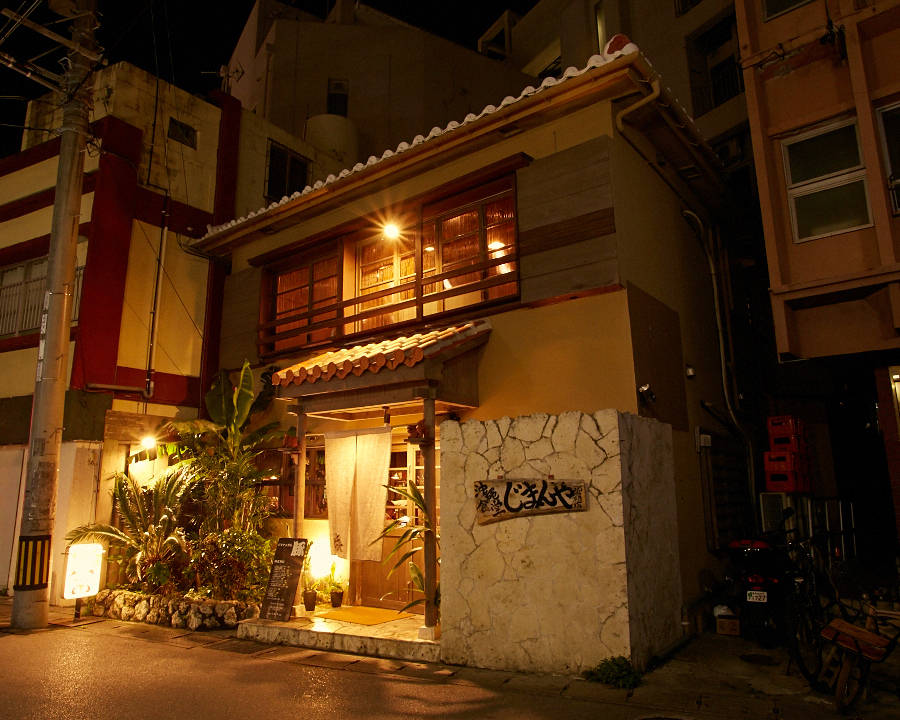
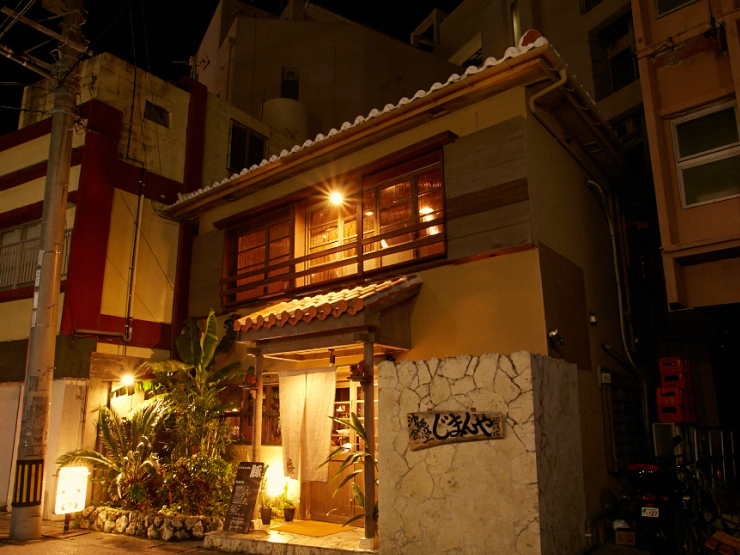
画像サイズとレイアウト修正

diff --git a/src/components/Main.vue b/src/components/Main.vue
@@ -2,7 +2,7 @@
     <main>
       <section id="concept" class="p-12 bg-white">
         <h2 class="text-center text-3xl mb-4 tracking-widest text-seaBlue font-bold">沖縄の飲食店を応援する</h2>
-        <p class="text-center text-lg leading-8 text-seaBlue mb-4">新型コロナウィルスによって多くの飲食店が大きなダメージを受けました。<br>そんな中でも一生懸命、お客さんに美味しい料理を提供してくれるお店を応援したいと考えています。</p>
+        <p class="text-center text-lg leading-8 text-seaBlue mb-6">新型コロナウィルスによって多くの飲食店が大きなダメージを受けました。<br>そんな中でも一生懸命、お客さんに美味しい料理を提供してくれるお店を応援したいと考えています。</p>
         <div class="w-10/12 m-auto">
           <VueSlickCarousel v-bind="settings">
                   <div v-for="item in items" v-bind:key="item.index" class="card-item">
@@ -45,12 +45,12 @@ export default {
           { 
             img: require('@/assets/images/naha/002/001.jpg'),
             name: 'じまんや',
-            txt: '自慢の料理と泡盛で最高の沖縄を堪能できる',
+            txt: '自慢の料理と泡盛で最高の沖縄を堪能できます',
           },
           { 
             img: require('@/assets/images/naha/003/001.jpg'),
             name: '乃魚島',
-            txt: '鮮度抜群の魚介をさまざまな料理がおいしい',
+            txt: '鮮度抜群の魚介をさまざまな料理がおいしいです',
           },
         ],
       }

diff --git a/src/assets/style/tailwind.css b/src/assets/style/tailwind.css
@@ -11,4 +11,16 @@
 }
 .card-item h3 {
   @apply my-2 font-bold;
-} 
+  background: #1395ac;
+  padding: 6px 9px;
+  line-height: 1;
+  display: inline-block;
+  color: #fff;
+  position: relative;
+  top: -18px;
+  margin-bottom: 0;
+}
+.card-item p {
+  position: relative;
+  top: -10px;
+}

diff --git a/README.md b/README.md
@@ -1,4 +1,4 @@
-# umi
+# okimeshi
 
 ## Project setup
 ```
